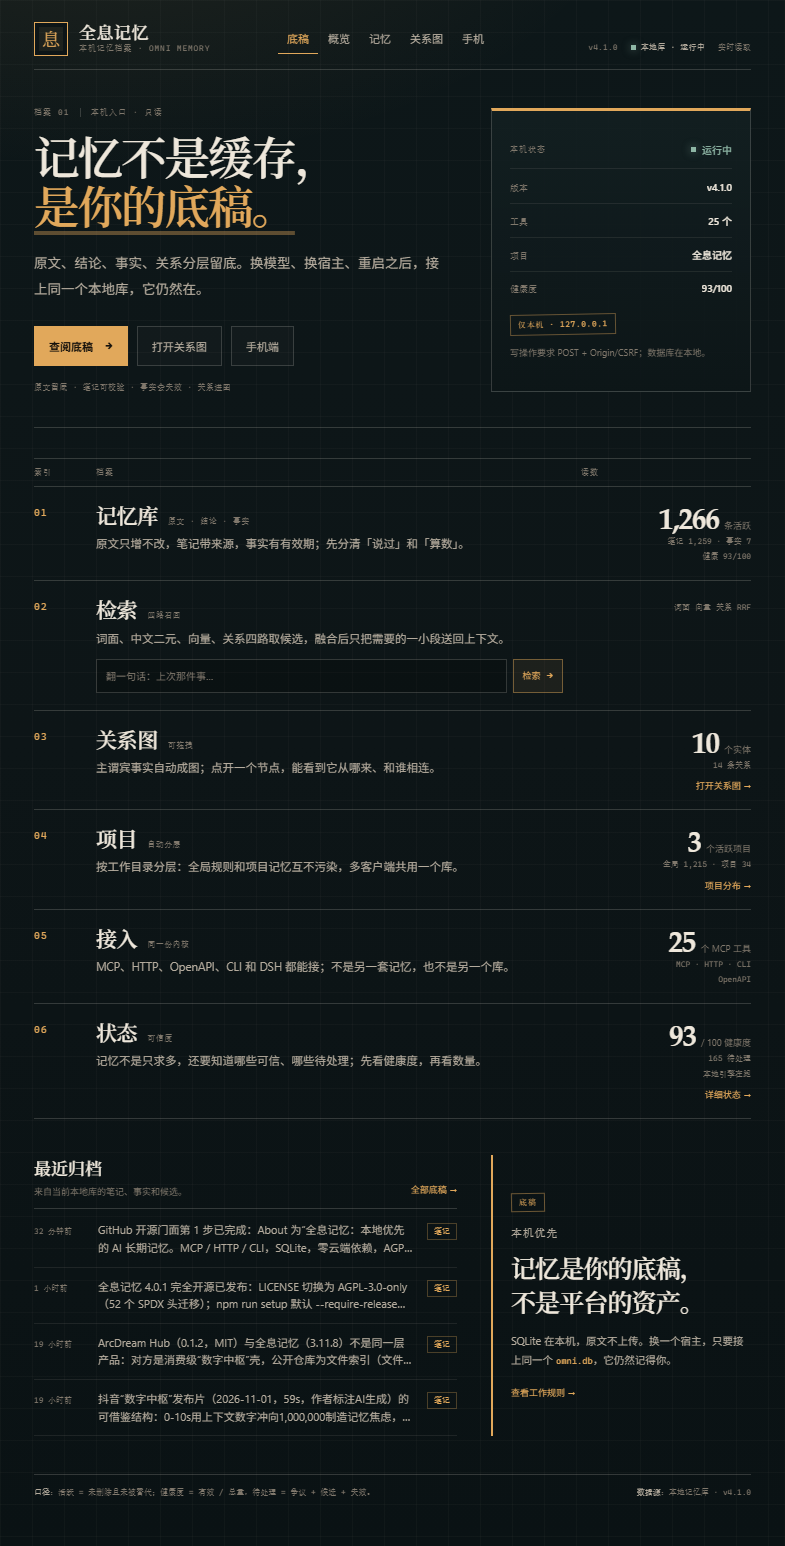
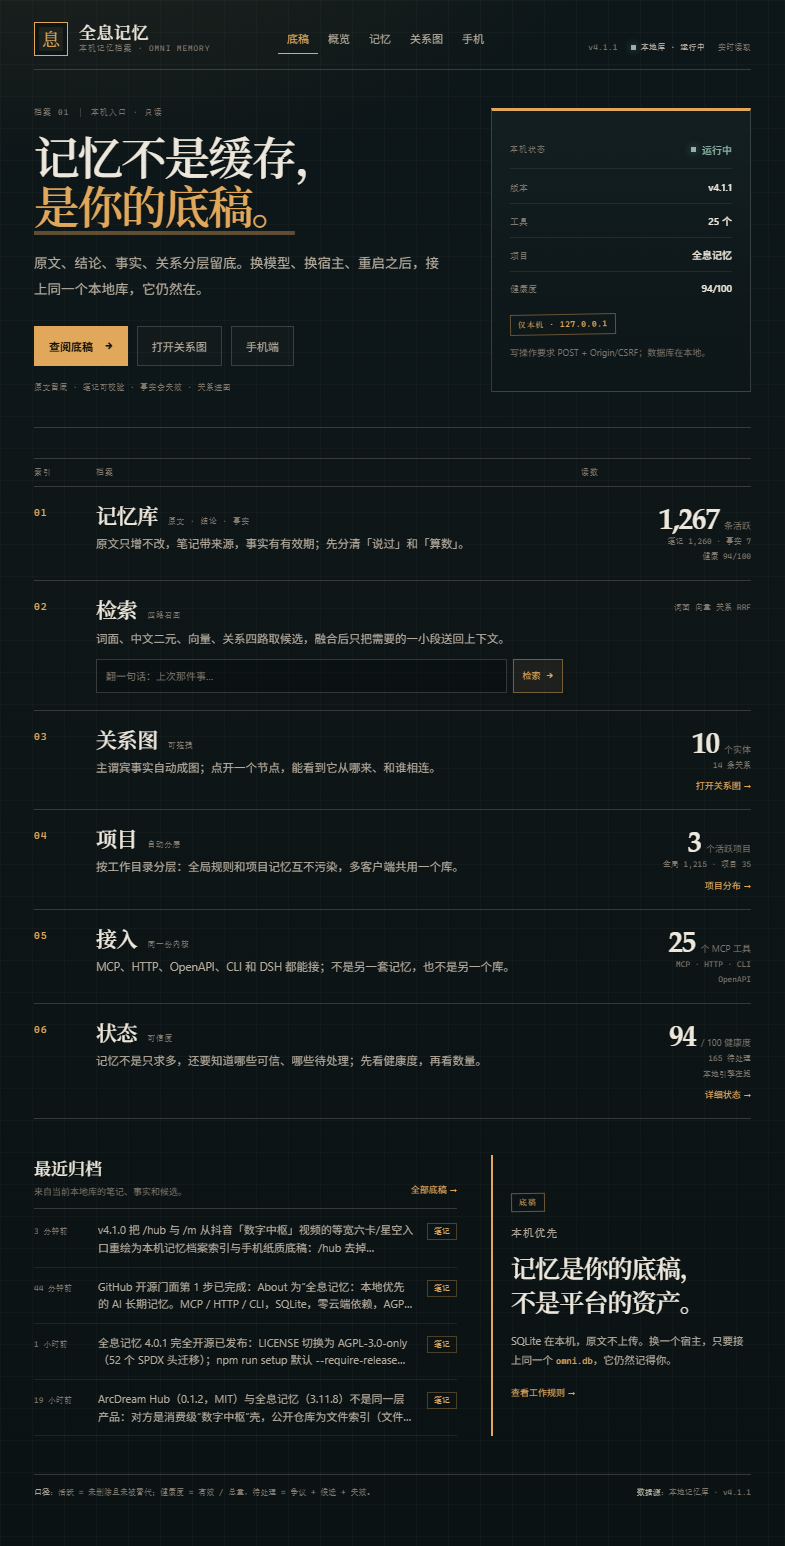
fix: v4.1.1 flatten mobile readout row

diff --git a/hosts/http/web/mobile.css b/hosts/http/web/mobile.css
@@ -43,11 +43,9 @@ button,input{font:inherit;color:inherit}
 .m-hero h1{font-family:var(--m-display);font-size:clamp(32px,9.8vw,44px);line-height:1.12;letter-spacing:-.04em;margin:0;font-weight:600}
 .m-hero h1 em{font-style:normal;color:var(--m-amber);text-decoration:underline;text-decoration-color:rgba(225,168,91,.34);text-underline-offset:5px}
 .m-hero p{font-size:11.5px;line-height:1.85;color:var(--m-muted);margin:13px 0 0;max-width:34em}
-.m-stats{display:grid;grid-template-columns:repeat(3,1fr);margin-top:18px;border-top:1px solid var(--m-line);border-bottom:1px solid var(--m-line)}
-.m-stat{padding:12px 8px 11px;text-align:left;min-width:0;border-right:1px solid var(--m-line2)}
-.m-stat:last-child{border-right:0}
-.m-stat strong{display:block;font-family:var(--m-display);font-size:24px;line-height:1;font-weight:600;letter-spacing:-.03em;color:var(--m-ink);font-variant-numeric:tabular-nums}
-.m-stat span{display:block;font-family:var(--m-mono);font-size:8px;color:var(--m-dim);margin-top:6px}
+.m-stats{display:flex;flex-wrap:wrap;align-items:baseline;gap:6px 14px;margin-top:18px;padding:10px 0;border-top:1px solid var(--m-line);border-bottom:1px solid var(--m-line);font-family:var(--m-mono);font-size:8px;color:var(--m-dim)}
+.m-stats span{display:inline-flex;align-items:baseline;gap:5px;white-space:nowrap}
+.m-stats b{font-family:var(--m-display);font-size:18px;line-height:1;font-weight:600;letter-spacing:-.02em;color:var(--m-ink);font-variant-numeric:tabular-nums}
 .m-search-wrap{position:sticky;top:calc(55px + env(safe-area-inset-top));z-index:5;background:linear-gradient(180deg,rgba(13,21,23,.97) 68%,rgba(13,21,23,0));padding:10px 0 11px}
 .m-search{display:flex;align-items:center;gap:7px;height:44px;border:0;border-bottom:1px solid var(--m-line);border-radius:0;background:rgba(0,0,0,.14);padding:0 8px 0 10px}
 .m-search:focus-within{border-bottom-color:var(--m-amber);box-shadow:0 2px 0 rgba(225,168,91,.16)}

diff --git a/hosts/http/web/m.html b/hosts/http/web/m.html
@@ -26,9 +26,9 @@
     <h1>记忆不在云端，<br><em>在这份底稿里。</em></h1>
     <p>换模型、换宿主、重启之后，接上同一个本地库，它仍然在。</p>
     <div class="m-stats">
-      <div class="m-stat"><strong id="mMemory">—</strong><span>活跃记忆</span></div>
-      <div class="m-stat"><strong id="mHealth">—</strong><span>健康度</span></div>
-      <div class="m-stat"><strong id="mTools">—</strong><span>工具</span></div>
+      <span><b id="mMemory">—</b> 条活跃</span>
+      <span><b id="mHealth">—</b>/100 健康</span>
+      <span><b id="mTools">—</b> 个工具</span>
     </div>
   </section>
 

diff --git a/docs/DESIGN.md b/docs/DESIGN.md
@@ -2,8 +2,8 @@
 
 | 项 | 值 |
 |---|---|
-| 文档版本 | 4.1.0 |
-| 插件版本 | 4.1.0 |
+| 文档版本 | 4.1.1 |
+| 插件版本 | 4.1.1 |
 | 状态 | 已评审（本文为开发与验收的**唯一依据**） |
 | 目标平台 | DSH 0.2.2-rc.3 原生插件（Desktop，Windows 11，Node 22.23.2，`engines >=22.13`）；MCP / HTTP / OpenAPI / CLI 宿主通用 |
 | 最后更新 | 2026-11-24 |
@@ -82,7 +82,7 @@
 | FR-42 | 跨平台项目键稳定 | Windows/macOS 同一路径不同大小写生成同一项目键；旧键首次打开时按路径迁移到 canonical key，迁移幂等且不误合并同名目录 | ✅ 已实现（schema v15，ADR-031） |
 | FR-43 | 版本可见与受控更新 | `/health`、`/omni-memory/status`、`/overview` 与面板顶栏显示当前版本；`daily-sync` 默认只报告，`--apply` 才更新；更新前必须验证 GitHub Release 的 Ed25519 清单、包哈希、启动器哈希与签名提交谱系，只快进到签名提交；启动器安装到内容寻址路径后再切换任务；`--restart` 才重启服务 | ✅ 已实现（3.11.8；`scripts/daily-sync.mjs`、`lib/update-signature.mjs`、`scripts/install-launcher.mjs`） |
 | FR-44 | 读取记忆时版本提醒 | `memory_context`（MCP/CLI）与 `/omni-memory/packet` 读取时检查云端 `main/package.json`；发现更高版本时在返回文本顶部提示“云端有新版，是否更新由用户决定”，不命令 AI 自动执行；成功结果缓存 30 分钟，失败 5 分钟，Contents API 与 raw 回退共享 2.5s 总预算，检查失败不阻塞记忆读取；缓存回读校验版本结构与 TTL，失败不保留旧远端版本；并发读取用跨进程单飞锁只发一次请求 | ✅ 已实现（3.11.6；`lib/version-check.mjs`） |
-| FR-45 | 产品化入口与诊断 | `/hub` 非等宽档案索引（记忆库/检索/关系图/项目/接入/状态，横向索引行而不是六卡网格）与 `/m` 手机端纸质底稿式只读搜索；`/star-map.html` 保留既有星图；`omni doctor` 只读诊断 Node、数据目录、SQLite 完整性、语义资产、HTTP、计划任务；`npm run setup` 先验证官方 Release 的 Ed25519 清单、签名 commit、干净工作树与启动器 SHA-256，再安装/创建计划任务；`setup:dev` 只做同提交哈希自洽；默认 dry-run，`--apply --start` 才落盘与启动 | ✅ 已实现（4.0.1 产品化入口；4.1.0 重绘 `/hub` 与 `/m`；`hosts/shared/doctor.mjs`、`scripts/install.mjs`、`scripts/verify-release.mjs`） |
+| FR-45 | 产品化入口与诊断 | `/hub` 非等宽档案索引（记忆库/检索/关系图/项目/接入/状态，横向索引行而不是六卡网格）与 `/m` 手机端纸质底稿式只读搜索；`/star-map.html` 保留既有星图；`omni doctor` 只读诊断 Node、数据目录、SQLite 完整性、语义资产、HTTP、计划任务；`npm run setup` 先验证官方 Release 的 Ed25519 清单、签名 commit、干净工作树与启动器 SHA-256，再安装/创建计划任务；`setup:dev` 只做同提交哈希自洽；默认 dry-run，`--apply --start` 才落盘与启动 | ✅ 已实现（4.0.1 产品化入口；4.1.0 重绘 `/hub` 与 `/m`；4.1.1 手机读数改为单行；`hosts/shared/doctor.mjs`、`scripts/install.mjs`、`scripts/verify-release.mjs`） |
 | FR-46 | 开源发布与公共验证 | OSI 许可证 AGPL-3.0-only + 商业例外；贡献/安全/行为准则/治理文件；`npm run demo` 隔离演示；`npm run qa` 跑黄金集与 120 例质量套件；`verify:release` 与 `setup --require-release` 共用发布验签逻辑 | ✅ 已实现（4.0.1；`LICENSE`、`LICENSING.md`、`scripts/demo.mjs`、`scripts/qa.mjs`、`docs/QUICKSTART.md`） |
 
 ### 1.2 非功能需求

diff --git a/README.md b/README.md
@@ -32,7 +32,7 @@ npm run serve                  # 打开 http://127.0.0.1:7788/hub
 Windows 官方安装（发布验签，安装计划任务并启动 7788，静默无黑框）：
 
 ```powershell
-git checkout v4.1.0
+git checkout v4.1.1
 npm ci
 npm run setup:dry:release      # 先看计划，并验证官方 Release 签名
 npm run setup                  # 验签通过才落盘；不通过不碰正在运行的服务
@@ -121,8 +121,8 @@ node scripts/daily-sync.mjs --apply
 ### 验证发布物
 
 ```bash
-npm run verify:release -- --tag v4.1.0
-npm run verify:release -- --tag v4.1.0 --launcher ./omni-serve-7788.exe
+npm run verify:release -- --tag v4.1.1
+npm run verify:release -- --tag v4.1.1 --launcher ./omni-serve-7788.exe
 ```
 
 第一条会下载官方 Release 的签名清单，用内置 Ed25519 公钥验签，再比对签名 commit 上的 `package.json` 与启动器 SHA-256。第二条额外验证你从镜像或第三方渠道拿到的启动器字节。它只读，不安装、不重启、不移动 HEAD；`npm run setup` 已默认走这条发布验签路径，不再使用“同提交哈希自洽”的旧边界。完整说明见 [`docs/VERIFY-RELEASE.md`](docs/VERIFY-RELEASE.md)。
@@ -254,6 +254,7 @@ node hosts/cli.mjs context --query "当前任务"   # 给 hooks 拼上下文用
 - 3.12.3 新增：`npm run verify:release` 可从官方 Release 验签，并比对签名 commit 上的 `package.json` 与启动器 SHA-256；`--launcher` 可校验镜像/第三方渠道下载的 exe。只读，不安装、不重启。
 - 4.0.1：许可证切换为 AGPL-3.0-only；`npm run setup` 改为发布验签 + 干净检出检查；新增 `npm run demo` / `npm run qa`；测试 **438/438**，公共 QA golden 24/24、quality 120/120。
 - 4.1.0：`/hub` 与 `/m` 从等宽六卡/星空入口重绘为本机档案索引与手机底稿；真实数据绑定不变；`/star-map.html` 保留原有星图。
+- 4.1.1：手机端把三列大数字统计条改成一行档案读数，进一步去掉视频里的“状态三指标”观感；只改排版，不动数据。
 - 黄金集（20 语料 / 24 问题）：词面 MRR 0.776 → 旧 hashed 混合 0.927 → 内置本地语义单独 **0.979**；语义冷加载约 208ms，单查询约 9.5ms（20 次 191ms，本机 CPU）
 
 ```bash

diff --git a/docs/QUICKSTART.md b/docs/QUICKSTART.md
@@ -51,12 +51,12 @@ $env:OMNI_HOME = "D:\omni-home"; npm run serve
 ## 3. 官方安装（Windows，发布验签）
 
 ```bash
-git checkout v4.1.0
+git checkout v4.1.1
 npm ci
 npm run setup
 ```
 
-`setup` 会先验证 `v4.1.0` 的 Ed25519 发布清单，要求当前 HEAD 就是签名 commit、工作树没有未提交的跟踪文件，然后才安装启动器并创建计划任务。任何一步不符都会失败，不会覆盖正在运行的服务。
+`setup` 会先验证 `v4.1.1` 的 Ed25519 发布清单，要求当前 HEAD 就是签名 commit、工作树没有未提交的跟踪文件，然后才安装启动器并创建计划任务。任何一步不符都会失败，不会覆盖正在运行的服务。
 
 只想看计划、不落盘：
 
@@ -77,13 +77,13 @@ npm run setup:dev
 ## 4. 验证发布物
 
 ```bash
-npm run verify:release -- --tag v4.1.0
+npm run verify:release -- --tag v4.1.1
 ```
 
 校验 Release 清单签名、tag/version/commit，以及签名 commit 上的 `package.json` 和启动器哈希。镜像下载的 exe 可以单独比对：
 
 ```bash
-npm run verify:release -- --tag v4.1.0 --launcher ./omni-serve-7788.exe
+npm run verify:release -- --tag v4.1.1 --launcher ./omni-serve-7788.exe
 ```
 
 ## 5. 接入 AI 宿主
@@ -113,7 +113,7 @@ npm run uninstall:launcher
 
 **端口被占用**：`OMNI_HTTP_PORT=7799 npm run serve`。
 
-**`npm run setup` 报 release not found**：你不在发布 tag 上，或该版本还没发布。用 `git checkout v4.1.0`；开发用 `npm run setup:dev`。
+**`npm run setup` 报 release not found**：你不在发布 tag 上，或该版本还没发布。用 `git checkout v4.1.1`；开发用 `npm run setup:dev`。
 
 **Windows 计划任务查询失败**：安装器会区分“任务不存在”和“查询未知”。未知时拒绝改动，先修 `schtasks` 权限，或加 `--no-task` 只写配置。
 

diff --git a/docs/REFERENCE.md b/docs/REFERENCE.md
@@ -1,6 +1,6 @@
 # 全息记忆 · 机理与接口参考
 
-> 版本 4.1.0 · 生成日期 2026-11-24 · 依据源码与真实 schema v17 核对
+> 版本 4.1.1 · 生成日期 2026-11-24 · 依据源码与真实 schema v17 核对
 >
 > **给 AI 的用法**：这份文档按「先原理、后接口、最后剧本」组织。第一次接触时读第 1、2、9 章即可开工；要精确调用某个工具，直接跳到第 9 章对应小节。若这份文档已同步进记忆库（`omni memory:sync`），也可以先用 `memory_search` 搜"全息记忆 接口"定位。
 
@@ -459,7 +459,7 @@ MCP / HTTP 适配器在启动时会额外注册 `memory_context` 与 `memory_rul
 
 - `/`：原有完整仪表盘（KPI、健康度、增长、项目、热力图、画像、活跃带、星图、动态）。
 - `/hub`：本机记忆档案索引。横向非等宽索引行（记忆库 / 检索 / 关系图 / 项目 / 接入 / 状态），数字来自 `/omni-memory/overview` 与 `/health`；搜索框跳转 `/panel.html?q=`。视觉是墨色底稿，不是六卡网格。
-- `/m`：竖屏只读手机端，纸质底稿式最近归档 + `/omni-memory/search` 搜索；不提供写入入口。
+- `/m`：竖屏只读手机端，纸质底稿式最近归档 + `/omni-memory/search` 搜索；顶部一行档案读数（活跃/健康/工具），不提供写入入口。
 
 `/hub` 与 `/m` 是无扩展名的 pretty-path，由 `hosts/http/server.mjs` 的 `STATIC_ALIASES` 映射到 `hub.html` / `m.html`，不是新增 REST 路由。星图默认读 `scope=all`，四旋臂三维投影（移植客户端 `MemoryGraph`），自动旋转、拖拽旋转、滚轮缩放、点选节点查详情；`/?tab=map` 可直接打开星图页签。
 

diff --git a/docs/INSTALL-RELEASE.md b/docs/INSTALL-RELEASE.md
@@ -12,7 +12,7 @@
 ## `npm run setup` 的实际顺序
 
 1. `runDoctor` 只读预检：仓库、数据目录、Node、SQLite、端口占用。
-2. 读本地 `package.json` 版本，要求形如 `v4.1.0` 的官方 Release 存在。
+2. 读本地 `package.json` 版本，要求形如 `v4.1.1` 的官方 Release 存在。
 3. 从 `api.github.com` 读取 Release 资产 `omni-update-manifest-v2.json`。
 4. 用内置固定 Ed25519 公钥验签，要求 `tag`、`version`、`commit` 与本地一致。
 5. 通过 GitHub Contents API 读取签名 commit 上的 `package.json` 与 `scripts/launchers/omni-serve-7788.exe`，比对清单中的 SHA-256。
@@ -44,7 +44,7 @@
 
 - 镜像站应原样保留 Release 资产与 tag，不要重新打包启动器。
 - 用户下载镜像后先跑：
-  `npm run verify:release -- --tag v4.1.0 --launcher <下载的 exe>`
+  `npm run verify:release -- --tag v4.1.1 --launcher <下载的 exe>`
 - 无法访问 `api.github.com` 时，安装会失败并给出网络错误；这是 fail-closed，不降级为哈希安装。
 
 ## 源码路径

diff --git a/docs/VERIFY-RELEASE.md b/docs/VERIFY-RELEASE.md
@@ -9,13 +9,13 @@
 npm run verify:release
 
 # 验证指定 Release
-npm run verify:release -- --tag v4.1.0
+npm run verify:release -- --tag v4.1.1
 
 # 验证最新 Release
 npm run verify:release -- --latest
 
 # 验证你从任意渠道下载的启动器 exe
-npm run verify:release -- --tag v4.1.0 --launcher ./omni-serve-7788.exe
+npm run verify:release -- --tag v4.1.1 --launcher ./omni-serve-7788.exe
 ```
 
 成功时退出码为 `0`，输出签名 key、commit、`package.json` SHA-256、启动器 SHA-256；失败时退出码为 `1`，输出 JSON `{"ok":false,"error":"..."}`。加 `--json` 可获得机器可读结果。
@@ -43,7 +43,7 @@ npm run verify:release -- --tag v4.1.0 --launcher ./omni-serve-7788.exe
 
 ```powershell
 $env:GITHUB_TOKEN = "ghp_xxx"
-npm run verify:release -- --tag v4.1.0
+npm run verify:release -- --tag v4.1.1
 ```
 
 不依赖 `raw.githubusercontent.com`，因为部分网络会重置该域名；文件内容通过 GitHub Contents API 获取。

diff --git a/docs/CHANGELOG.md b/docs/CHANGELOG.md
@@ -2,6 +2,14 @@
 
 格式遵循 Keep a Changelog；版本遵循语义化。可靠性 = `npm test` 通过率。
 
+## [4.1.1] — 2026-11-24
+
+### 界面
+- **手机端读数从三列统计条改为一行档案读数**：`/m` 顶部不再放“大数字三列”，改成 `活跃条数 · 健康度 · 工具数` 的单行排版；继续使用同一套墨色底稿语言，进一步去掉视频里的“状态三指标”观感。只改排版，数据来源与只读边界不变。
+
+### 测试
+- 完整 `npm test` **438/438** 通过；`npm run check` 通过（438 tests、23 core / 25 MCP、21 routes、31 ADRs、version 4.1.1、syntax 56 files）。
+
 ## [4.1.0] — 2026-11-24
 
 ### 界面
